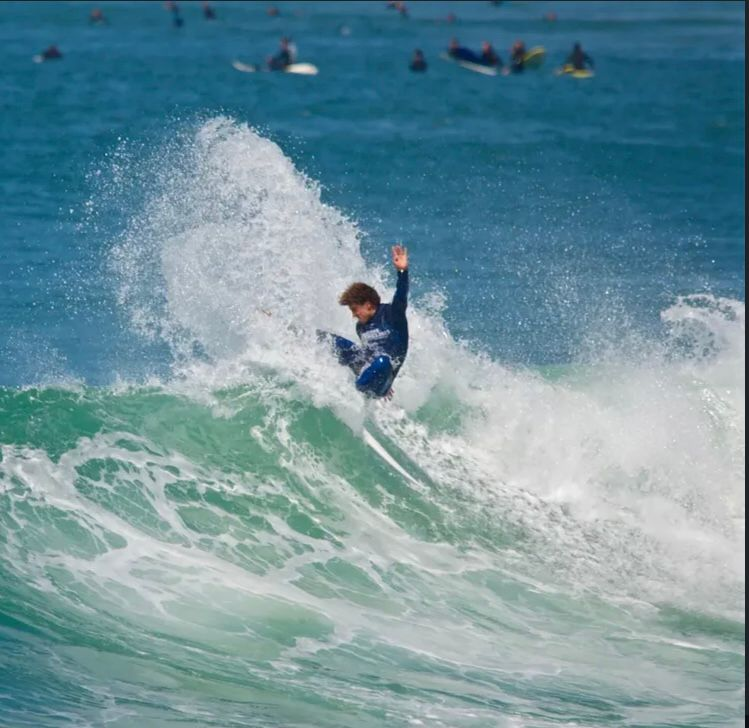
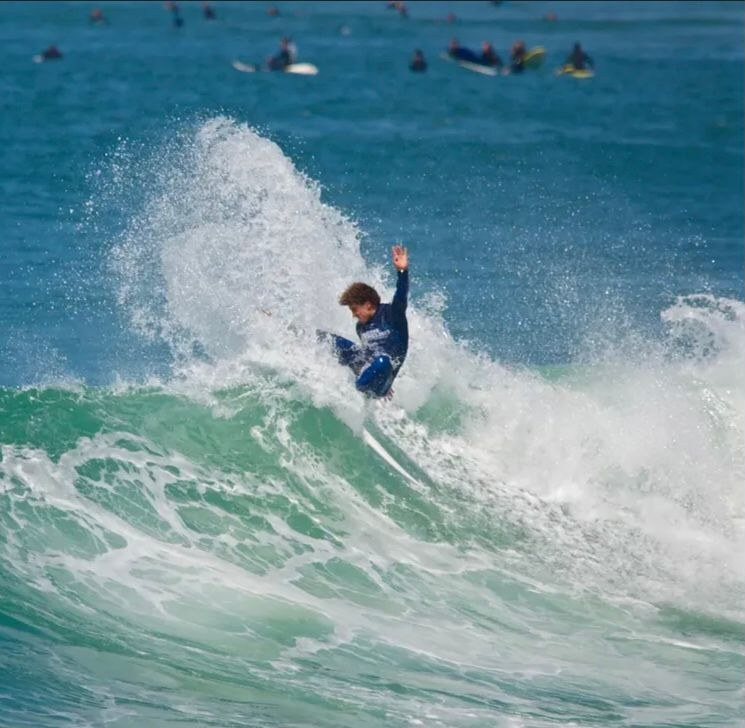
services: crop 4-px dark edge artifact from surf_nilton.jpeg + sync HTML width

diff --git a/de/index.html b/de/index.html
@@ -228,7 +228,7 @@
 
         <li><article class="card service-card">
           <div class="card__media">
-            <img src="/assets/images/services/surf_nilton.jpeg" alt="" width="749" height="728" loading="lazy">
+            <img src="/assets/images/services/surf_nilton.jpeg" alt="" width="745" height="728" loading="lazy">
           </div>
           <div class="card__body">
             <h3 class="card__title" data-content-id="services.coaching.title">Private Surf Coaching</h3>

diff --git a/en/index.html b/en/index.html
@@ -235,7 +235,7 @@
 
         <li><article class="card service-card">
           <div class="card__media">
-            <img src="/assets/images/services/surf_nilton.jpeg" alt="" width="749" height="728" loading="lazy">
+            <img src="/assets/images/services/surf_nilton.jpeg" alt="" width="745" height="728" loading="lazy">
           </div>
           <div class="card__body">
             <h3 class="card__title" data-content-id="services.coaching.title">Private Surf Coaching</h3>

diff --git a/fr/index.html b/fr/index.html
@@ -228,7 +228,7 @@
 
         <li><article class="card service-card">
           <div class="card__media">
-            <img src="/assets/images/services/surf_nilton.jpeg" alt="" width="749" height="728" loading="lazy">
+            <img src="/assets/images/services/surf_nilton.jpeg" alt="" width="745" height="728" loading="lazy">
           </div>
           <div class="card__body">
             <h3 class="card__title" data-content-id="services.coaching.title">Private Surf Coaching</h3>

diff --git a/pt/index.html b/pt/index.html
@@ -231,7 +231,7 @@
 
         <li><article class="card service-card">
           <div class="card__media">
-            <img src="/assets/images/services/surf_nilton.jpeg" alt="" width="749" height="728" loading="lazy">
+            <img src="/assets/images/services/surf_nilton.jpeg" alt="" width="745" height="728" loading="lazy">
           </div>
           <div class="card__body">
             <h3 class="card__title" data-content-id="services.coaching.title">Private Surf Coaching</h3>

diff --git a/uk/index.html b/uk/index.html
@@ -228,7 +228,7 @@
 
         <li><article class="card service-card">
           <div class="card__media">
-            <img src="/assets/images/services/surf_nilton.jpeg" alt="" width="749" height="728" loading="lazy">
+            <img src="/assets/images/services/surf_nilton.jpeg" alt="" width="745" height="728" loading="lazy">
           </div>
           <div class="card__body">
             <h3 class="card__title" data-content-id="services.coaching.title">Private Surf Coaching</h3>
